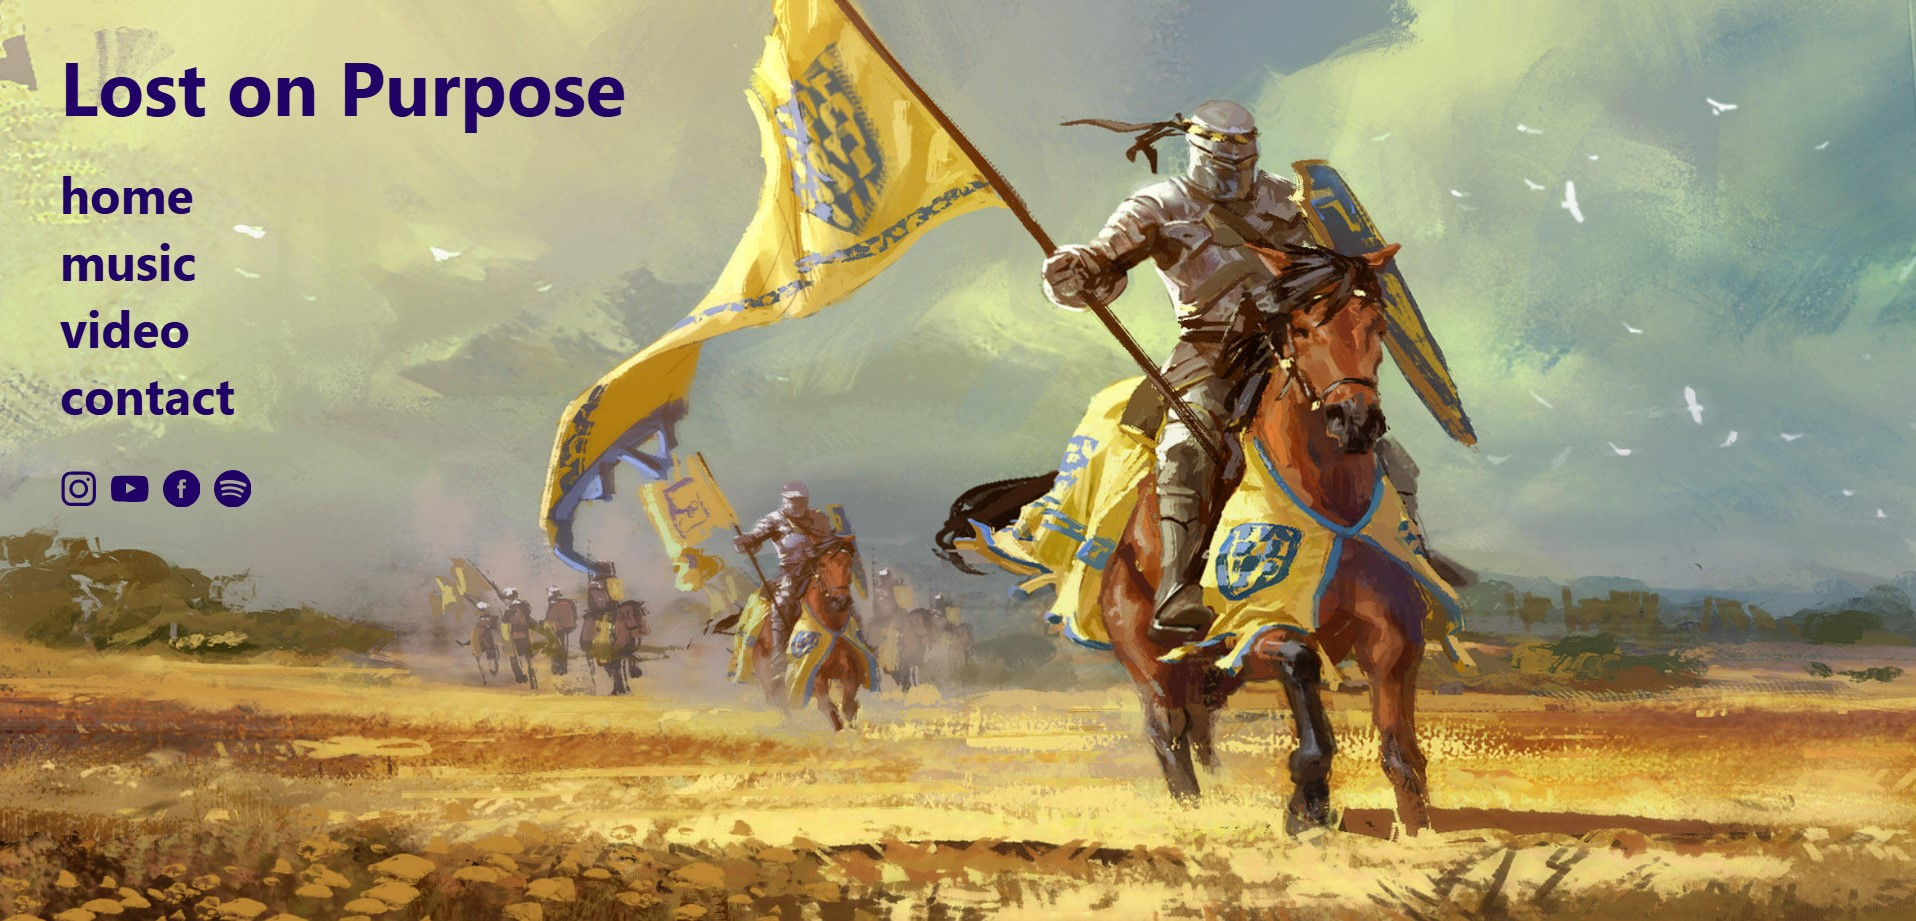
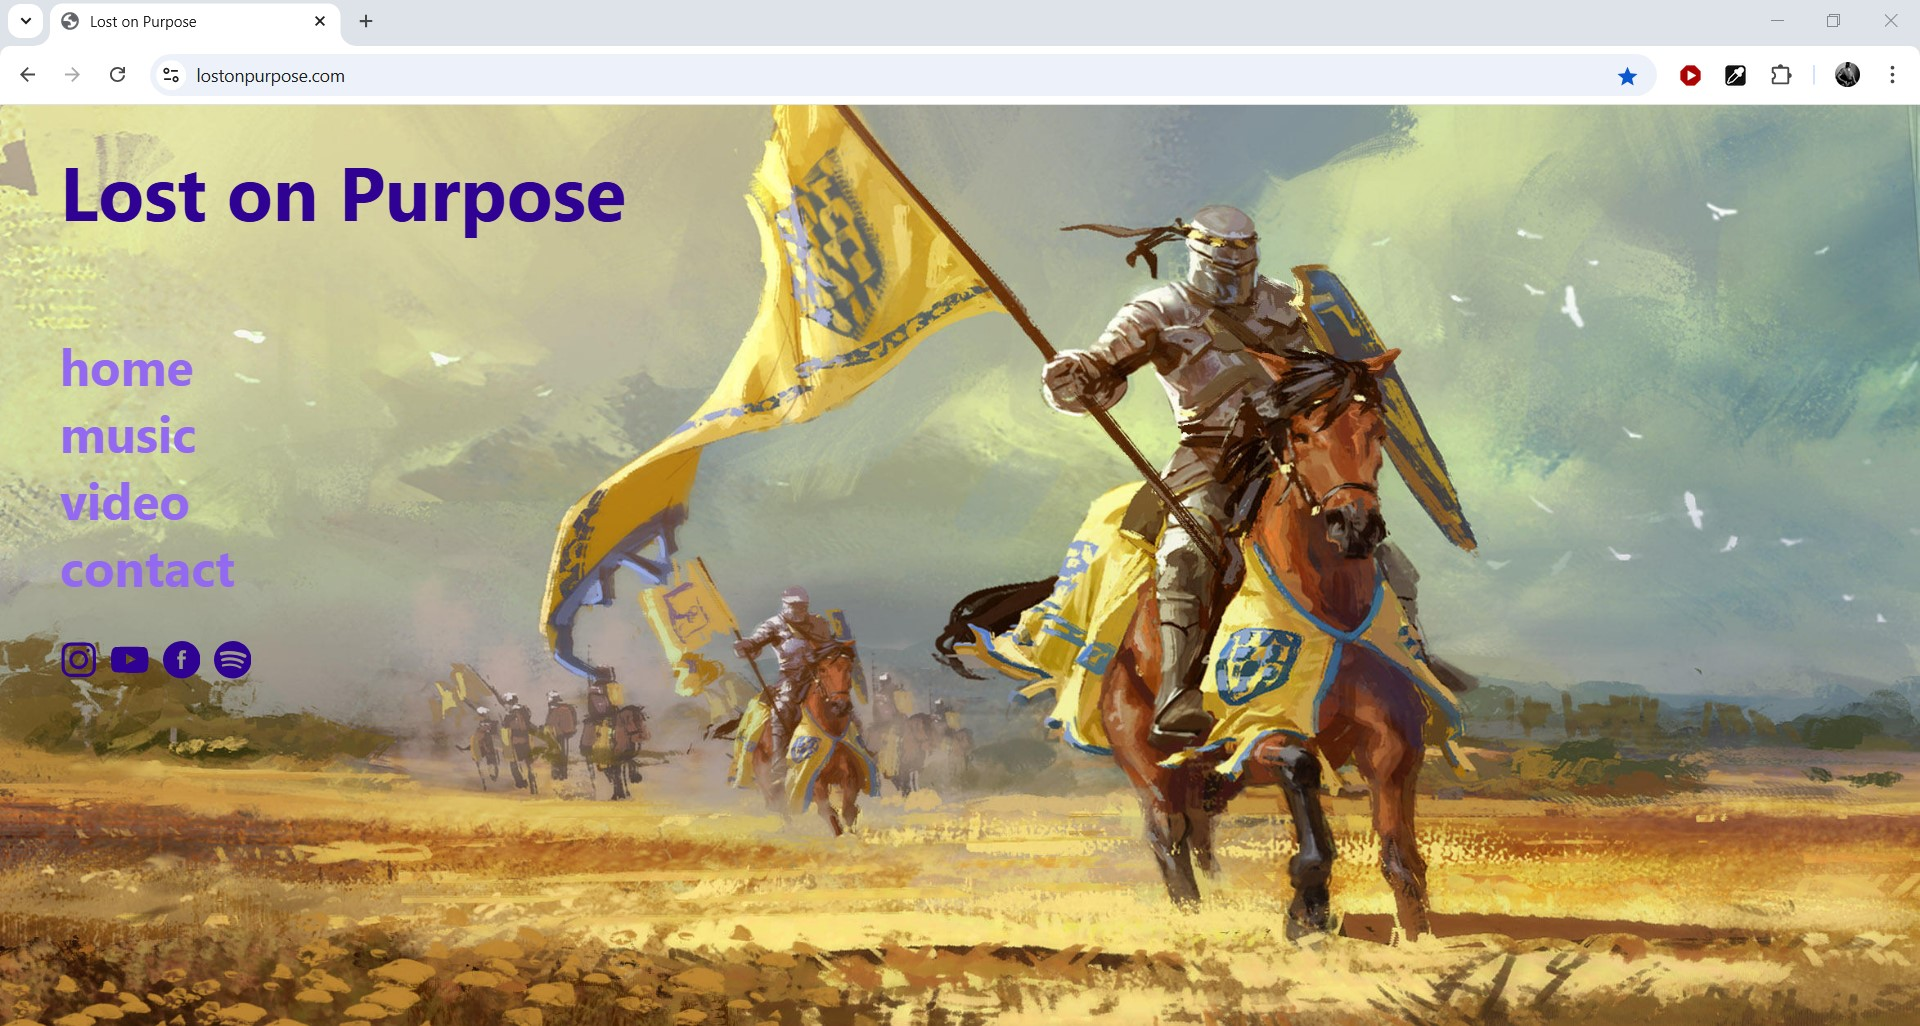
photo updates, text updates, fixing js panels

diff --git a/source/partials/_js_clock.html b/source/partials/_js_clock.html
@@ -1,29 +1,29 @@
 <div class="d-flex bg-light column col-sm-12 col-lg-6">
-    <div class="p-2 column col-sm-12 col-lg-6">
-      <img src="images/clock.jpg" class=""style="width: 100%; height: 100px; object-fit: cover;"alt="js-clock">
-    </div>
-    <div class="d-flex flex-column column col-sm-12 col-lg-6 justify-content-center p-2">
-      <div class="w-100">
-        <h3>
-          Analogue Clock
-        </h3>
-        <h5 class="text-danger">
-          JavaScript App
-        </h5>
-        <br>
-        <p>
-          A stunningly gorgous analogue clock with a realistic second hand tick. Built with vanilla JS.
-        </p>
-        <div class="icons">
-          <img src="images/js.svg" style="width: 40px; height: 40px; object-fit: cover; margin-right: 12px" alt="">
-          <img src="images/html.svg" style="width: 40px; height: 40px; object-fit: cover; margin-right: 12px" alt="">
-          <img src="images/css.svg" style="width: 40px; height: 40px; object-fit: cover; margin-right: 12px" alt="">
-          <img src="images/github.svg" style="width: 40px; height: 40px; margin-right: 12px; margin-bottom: 4px;" alt="">
-        </div>
-        <div class="links">
-          <a href="https://lostonpurpose.github.io/calculator/" target="_blank" class="me-2">View Site</a>
-          <a href="https://github.com/lostonpurpose/calculator" target="_blank" class="ms-2">See Code</a>
-        </div>
+  <div class="p-2 column col-sm-12 col-lg-6">
+    <img src="images/clock.jpg" class=""style="width: 100%; height: 100px; object-fit: cover;"alt="js-clock">
+  </div>
+  <div class="d-flex flex-column column col-sm-12 col-lg-6 justify-content-center p-2">
+    <div class="w-100">
+      <h3>
+        Analogue Clock
+      </h3>
+      <h5 class="text-danger">
+        JavaScript App
+      </h5>
+      <br>
+      <p>
+        A stunningly gorgous analogue clock with a realistic second hand tick. Built with vanilla JS.
+      </p>
+      <div class="icons">
+        <img src="images/js.svg" style="width: 40px; height: 40px; object-fit: cover; margin-right: 12px" alt="">
+        <img src="images/html.svg" style="width: 40px; height: 40px; object-fit: cover; margin-right: 12px" alt="">
+        <img src="images/css.svg" style="width: 40px; height: 40px; object-fit: cover; margin-right: 12px" alt="">
+        <img src="images/github.svg" style="width: 40px; height: 40px; margin-right: 12px; margin-bottom: 4px;" alt="">
+      </div>
+      <div class="links">
+        <a href="https://lostonpurpose.github.io/analog_clock/" target="_blank" class="me-2">View Site</a>
+        <a href="https://github.com/lostonpurpose/analog_clock/blob/master/index.html" target="_blank" class="ms-2">See Code</a>
       </div>
     </div>
+  </div>
 </div>

diff --git a/source/partials/_guess.html b/source/partials/_guess.html
@@ -1,18 +1,18 @@
-<div class="bg-light column col-sm-12 col-lg-6">
+<div class="d-flex bg-light column col-sm-12 col-lg-6">
     <div class="p-2 column col-sm-12 col-lg-6">
-      <img src="images/clock.jpg" class=""style="width: 100%; height: 100px; object-fit: cover;"alt="js-clock">
+      <img src="images/guess.jpg" class=""style="width: 100%; height: 100px; object-fit: cover;"alt="js-clock">
     </div>
     <div class="d-flex flex-column column col-sm-12 col-lg-6 justify-content-center p-2">
       <div class="w-100">
         <h3>
-          Nice Little Calculator
+          Guessing Game!
         </h3>
         <h5 class="text-danger">
-          Stimulus App
+          JavaScript App
         </h5>
         <br>
         <p>
-          You have to admit it looks pretty nice.
+          A high-concept take on the classic guessing game "Guess the number from 1 to 100". I'm lying, it's just a simple guessing game. But surprisingly fun... once.
         </p>
         <div class="icons">
           <img src="images/js.svg" style="width: 40px; height: 40px; object-fit: cover; margin-right: 12px" alt="">
@@ -21,9 +21,8 @@
           <img src="images/github.svg" style="width: 40px; height: 40px; margin-right: 12px; margin-bottom: 4px;" alt="">
         </div>
         <div class="links">
-          
-          <a href="https://lostonpurpose.github.io/calculator/" target="_blank" class="me-2">View Site</a>
-          <a href="https://github.com/lostonpurpose/calculator" target="_blank" class="ms-2">See Code</a>
+          <a href="https://lostonpurpose.github.io/guessing_game/" target="_blank" class="me-2">View Site</a>
+          <a href="https://github.com/lostonpurpose/guessing_game" target="_blank" class="ms-2">See Code</a>
         </div>
       </div>
     </div>

diff --git a/source/partials/_js-colors.html b/source/partials/_js-colors.html
@@ -1,18 +1,18 @@
-<div class="d-flex bg-light">
-  <div class="p-5">
-    <img src="images/js-colors.jpg" class=""style="width: 100%; height: 450px; object-fit: cover;"alt="js-colors">
+<div class="d-flex bg-light column col-sm-12 col-lg-6">
+  <div class="p-2 column col-sm-12 col-lg-6">
+    <img src="images/js-colors.jpg" class=""style="width: 100%; height: 100px; object-fit: cover;"alt="js-colors">
   </div>
-  <div class="d-flex flex-column justify-content-center p-5">
+  <div class="d-flex flex-column column col-sm-12 col-lg-6 justify-content-center p-2">
     <div class="w-100">
       <h3>
-        Analogue Clock
+        Beautiful Line Drawer
       </h3>
       <h5 class="text-danger">
         JavaScript App
       </h5>
       <br>
       <p>
-        A stunningly gorgous analogue clock with a realistic second hand tick. Built with vanilla JS.
+        Cool colorful drawing app where lines converge on your mouse pointer from all four corners. Built with vanilla JS using JS canvas.
       </p>
       <div class="icons">
         <img src="images/js.svg" style="width: 40px; height: 40px; object-fit: cover; margin-right: 12px" alt="">

diff --git a/source/partials/_lop.html b/source/partials/_lop.html
@@ -12,7 +12,7 @@
       </h5>
       <br>
       <p>
-        Site for the band Lost on Purpose. They asked for a simple, clean site with links that updated what was displayed on the page. 
+        Site for the band Lost on Purpose. They asked for a simple, clean site with links that updated what was displayed on the page via JavaScript 
       </p>
       <div class="icons">
         <img src="images/js.svg" style="width: 40px; height: 40px; object-fit: cover; margin-right: 12px" alt="">
@@ -21,8 +21,8 @@
         <img src="images/github.svg" style="width: 40px; height: 40px; margin-right: 12px; margin-bottom: 4px;" alt="">
       </div>
       <div class="links">
-        <a href="https://lostonpurpose.github.io/analog_clock/" target="_blank" class="me-2">View Site</a>
-        <a href="https://github.com/lostonpurpose/analog_clock/blob/master/index.html" target="_blank" class="ms-2">See Code</a>
+        <a href="https://lostonpurpose.com/" target="_blank" class="me-2">View Site</a>
+        <a href="https://github.com/lostonpurpose/lopweb" target="_blank" class="ms-2">See Code</a>
       </div>
     </div> 
   </div>

diff --git a/source/partials/_potify.html b/source/partials/_potify.html
@@ -1,6 +1,6 @@
 <div class="bg-light row py-5">
   <div class="p-5 column col-sm-12 col-lg-6">
-    <img src="images/potify.jpg" class=""style="width: 100%; height: 450px; object-fit: cover;"alt="potify">
+    <img src="images/potify.jpg" class="lop-pic" style="width: 100%; height: 450px; object-fit: cover;"alt="potify">
   </div>
   <div class="d-flex flex-column justify-content-center p-5 column col-sm-12 col-lg-6">
     <div class="w-100">

diff --git a/source/stylesheets/site.css.scss b/source/stylesheets/site.css.scss
@@ -49,7 +49,7 @@ body {
 }
 
 .lop-pic {
-    object-position: 4% 50%;
+    object-position: 2% 50%;
 }
 
 .js-container {
